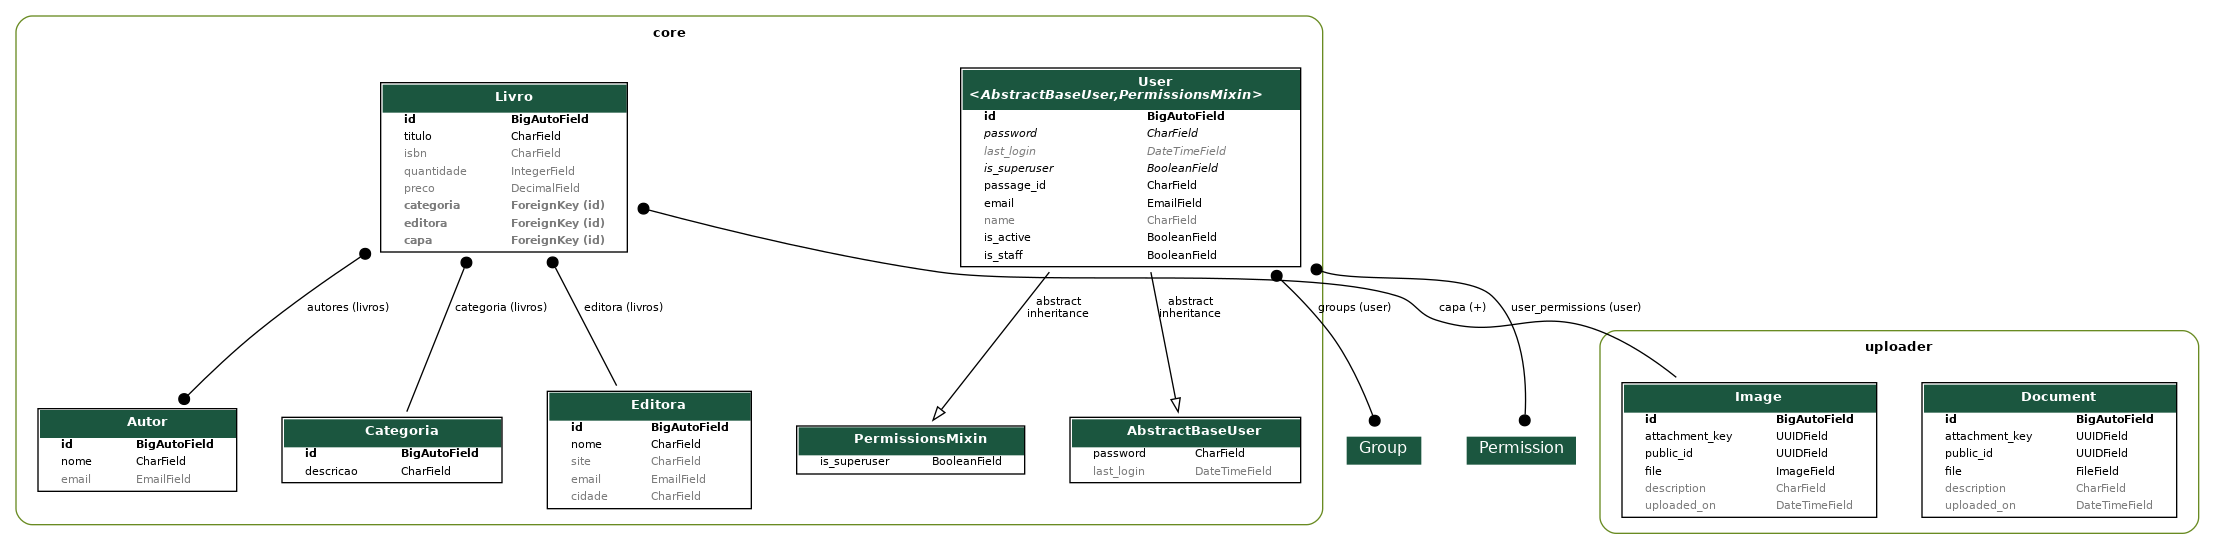
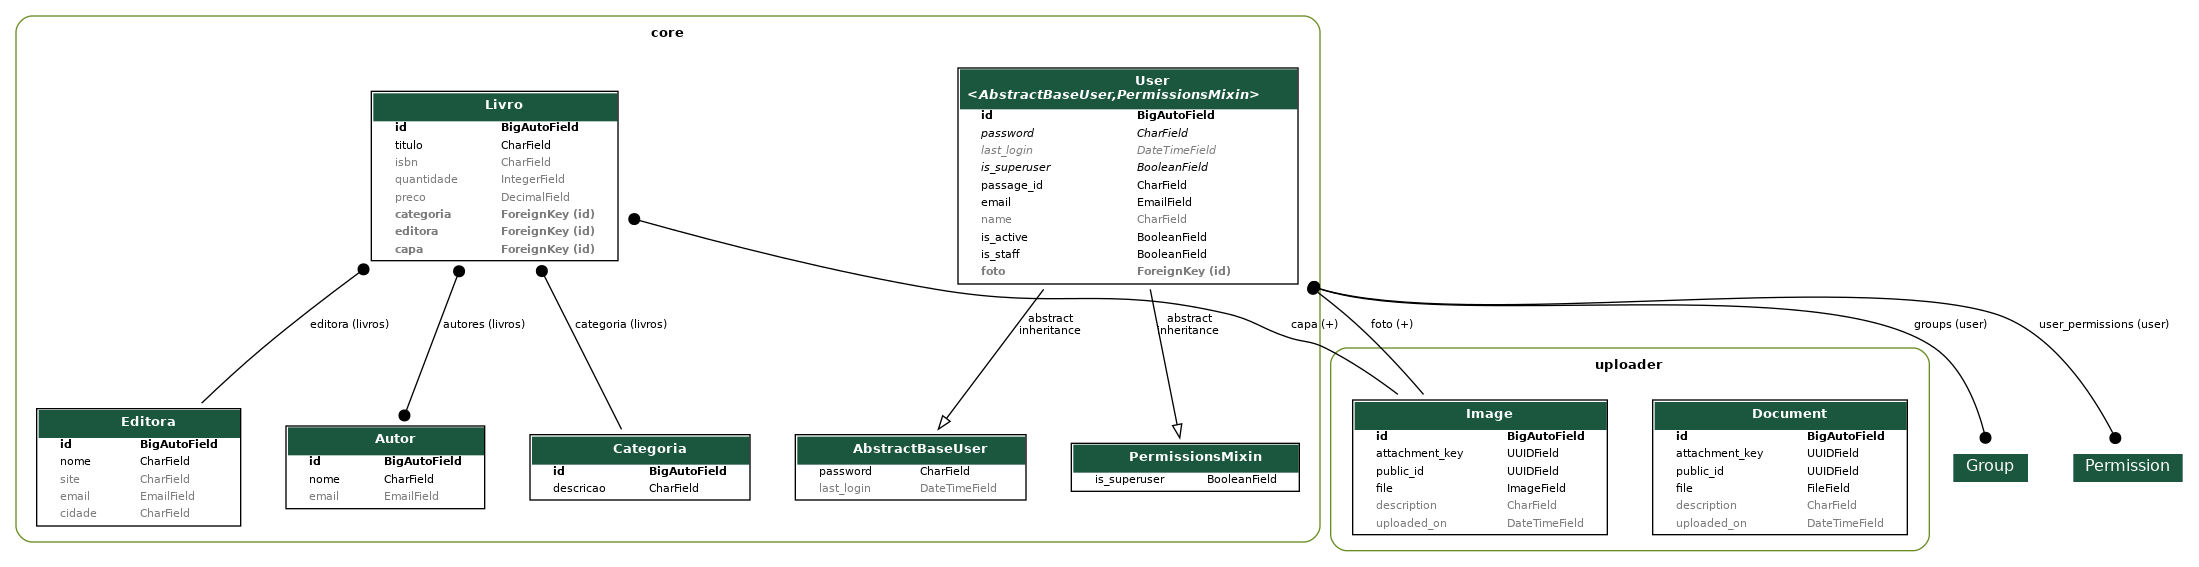
feat: inclusão da foto de perfil no usuário

diff --git a/core/serializers/user.py b/core/serializers/user.py
@@ -1,10 +1,23 @@
-from rest_framework.serializers import ModelSerializer
+from rest_framework.serializers import ModelSerializer, SlugRelatedField
 
 from core.models import User
+from uploader.models import Image
+from uploader.serializers import ImageSerializer
 
 
 class UserSerializer(ModelSerializer):
+    foto_attachment_key = SlugRelatedField(
+        source="foto",
+        queryset=Image.objects.all(),
+        slug_field="attachment_key",
+        required=False,
+        write_only=True,
+    )
+    foto = ImageSerializer(
+        required=False,
+        read_only=True
+    )
+
     class Meta:
         model = User
-        fields = '__all__'
-        depth = 1
+        fields = "__all__"

diff --git a/core/models/user.py b/core/models/user.py
@@ -10,6 +10,7 @@ from django.contrib.auth.models import (
 from django.db import models
 from django.utils.translation import gettext_lazy as _
 
+from uploader.models import Image
 
 class UserManager(BaseUserManager):
     """Manager for users."""
@@ -50,6 +51,14 @@ class User(AbstractBaseUser, PermissionsMixin):
         default=False,
         verbose_name=_('Usuário é da equipe'),
         help_text=_('Indica que este usuário pode acessar o Admin.'),
+    )
+    foto = models.ForeignKey(
+        Image,
+        related_name="+",
+        on_delete=models.SET_NULL,
+        null=True,
+        blank=True,
+        default=None,
     )
 
     objects = UserManager()

diff --git a/core/migrations/0017_user_foto.py b/core/migrations/0017_user_foto.py
@@ -1,0 +1,20 @@
+# Generated by Django 5.2.1 on 2025-06-03 11:36
+
+import django.db.models.deletion
+from django.db import migrations, models
+
+
+class Migration(migrations.Migration):
+
+    dependencies = [
+        ('core', '0016_alter_editora_site'),
+        ('uploader', '0001_initial'),
+    ]
+
+    operations = [
+        migrations.AddField(
+            model_name='user',
+            name='foto',
+            field=models.ForeignKey(blank=True, default=None, null=True, on_delete=django.db.models.deletion.SET_NULL, related_name='+', to='uploader.image'),
+        ),
+    ]

diff --git a/core/admin.py b/core/admin.py
@@ -16,7 +16,7 @@ class UserAdmin(BaseUserAdmin):
     list_display = ['email', 'name']
     fieldsets = (
         (None, {'fields': ('email', 'password')}),
-        (_('Personal Info'), {'fields': ('name', 'passage_id')}),
+        (_('Personal Info'), {'fields': ('name', 'passage_id', 'foto')}),
         (
             _('Permissions'),
             {
